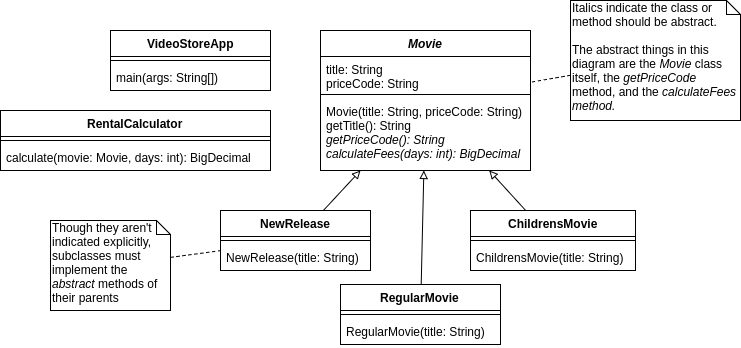
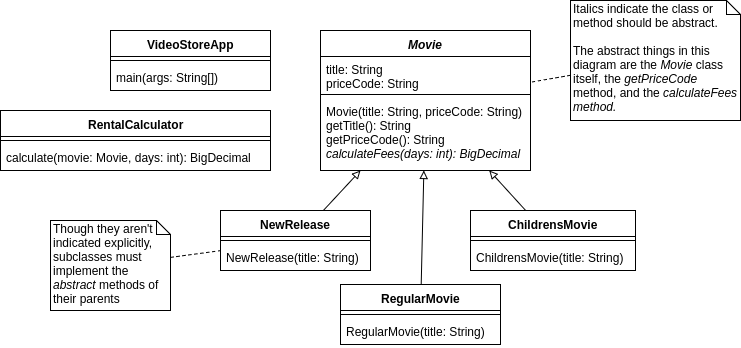
corrected getPriceCode issue

diff --git a/exercises/video-store.md b/exercises/video-store.md
@@ -2,6 +2,8 @@
 
 This exercise is adapted from a classic example, the "Replace Conditional with Polymorphism" refactoring found in Fowler's *Refactoring* book.
 
+*[Note: The diagrams were updated on 2017-02-21 to correct a discrepancy. The `getPriceCode` method in `Movie` should not be abstract. (Alternately, the `priceCode` attribute could be removed from `Movie`.) Any confusion on this detail will not affect your grade.]*
+
 ## Setup
 
 - Fork the existing repository (based on in-class work).
